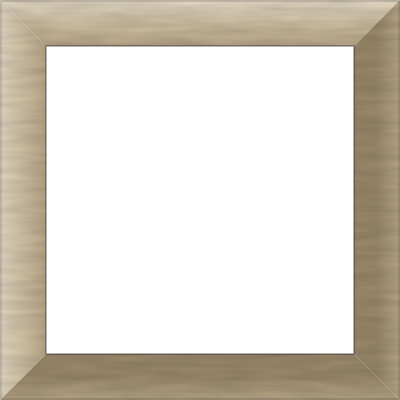
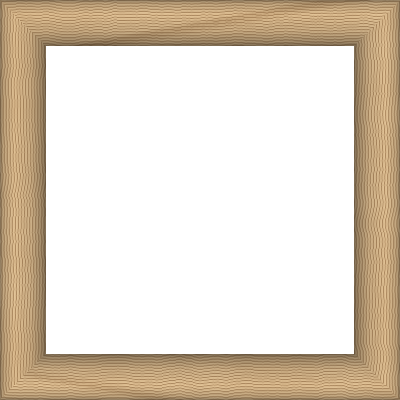
Realistic fine-grain natural-wood frame; rename Oak -> Natural Wood
The oak frame texture read as brushed metal (soft horizontal streaks).
Regenerate it as a procedural 9-slice wood molding: a beveled cross-
section with fine, wavy oak grain running along each rail and mitered
45-degree corners (scripts/generate-oak-frame.js, deterministic). Bump
the frame texture cache version v4 -> v5 so browsers fetch the new art.

Rename the swatch "Oak" -> "Natural Wood" and update the homepage copy
(black, white, or natural wood).

Changed region(s): [[0.0, 0.0, 1.0, 1.0]]

diff --git a/scripts/generate-oak-frame.js b/scripts/generate-oak-frame.js
@@ -1,0 +1,107 @@
+/**
+ * Generate a realistic fine-grain natural-wood (oak) frame texture as a
+ * 400x400 RGBA 9-slice border-image (matches border-image-slice:46 in
+ * preview.js / store.css). The molding occupies the outer 46px band with a
+ * beveled cross-section and fine, wavy oak grain running along each rail;
+ * corners miter at 45 degrees. Center is transparent (discarded by the slice).
+ *
+ * Run: node scripts/generate-oak-frame.js  ->  public/images/frames/oak.png
+ */
+const sharp = require('sharp');
+const path = require('path');
+
+const SIZE = 400;
+const BAND = 46;              // must equal border-image-slice
+const OUT = path.join(__dirname, '..', 'public', 'images', 'frames', 'oak.png');
+
+// ── deterministic value noise (no Math.random → reproducible builds) ──
+function mulberry32(a) {
+  return function () {
+    a |= 0; a = (a + 0x6D2B79F5) | 0;
+    let t = Math.imul(a ^ (a >>> 15), 1 | a);
+    t = (t + Math.imul(t ^ (t >>> 7), 61 | t)) ^ t;
+    return ((t ^ (t >>> 14)) >>> 0) / 4294967296;
+  };
+}
+const rand = mulberry32(20260715);
+const GRID = 512;
+const noiseTable = Array.from({ length: GRID }, () => rand());
+function smooth(t) { return t * t * (3 - 2 * t); }
+// 1-D value noise along a rail's length
+function noise1(x) {
+  const i = Math.floor(x), f = x - i;
+  const a = noiseTable[((i % GRID) + GRID) % GRID];
+  const b = noiseTable[(((i + 1) % GRID) + GRID) % GRID];
+  return a + (b - a) * smooth(f);
+}
+function fbm(x) { // fractal sum for organic wobble
+  return 0.6 * noise1(x) + 0.3 * noise1(x * 2.3 + 11) + 0.1 * noise1(x * 4.7 + 31);
+}
+
+// ── oak palette (honey/natural) ──
+const DARK = [150, 116, 78];   // early-wood grain lines
+const BASE = [201, 170, 128];  // #C9AA80 field
+const LITE = [227, 202, 162];  // late-wood highlight
+function lerp(a, b, t) { return [a[0] + (b[0] - a[0]) * t, a[1] + (b[1] - a[1]) * t, a[2] + (b[2] - a[2]) * t]; }
+function mul(c, k) { return [c[0] * k, c[1] * k, c[2] * k]; }
+
+// Beveled cross-section brightness across the 46px face (d: 0 outer .. 1 inner)
+function bevel(d) {
+  if (d < 0.06) return 0.72 + d / 0.06 * 0.20;          // outer edge shadow → up
+  if (d < 0.30) return 0.92 + (d - 0.06) / 0.24 * 0.16;  // rising face, catches light
+  if (d < 0.66) return 1.08 - (d - 0.30) / 0.36 * 0.10;  // gentle crown falloff
+  if (d < 0.90) return 0.98 - (d - 0.66) / 0.24 * 0.20;  // inner bevel down
+  return 0.78 - (d - 0.90) / 0.10 * 0.20;                // inner sight-edge shadow
+}
+
+// Fine oak grain darkness at (along px, across 0..1). Many thin, wavy lines.
+function grain(along, across) {
+  const wob = (fbm(along * 0.045) - 0.5) * 0.10          // slow drift of the whole grain
+            + (fbm(along * 0.20 + 7) - 0.5) * 0.03;       // finer wobble
+  const p = across + wob;
+  // ~16 fine lines across the face + a second octave for irregularity
+  let s = Math.sin(p * Math.PI * 2 * 16) * 0.5 + 0.5;
+  s = Math.pow(s, 2.2);                                   // thin the dark lines
+  const s2 = Math.sin((p + 0.13) * Math.PI * 2 * 33) * 0.5 + 0.5;
+  s = s * 0.78 + Math.pow(s2, 3) * 0.22;
+  // occasional stronger cathedral streak
+  const streak = fbm(along * 0.012 + across * 3 + 50);
+  if (streak > 0.72) s = Math.min(1, s + (streak - 0.72) * 1.4);
+  // long-axis tone variation (planks are never one flat color)
+  const tone = (fbm(along * 0.02 + 3) - 0.5) * 0.5 + 0.5;
+  const field = lerp(BASE, LITE, tone * 0.6);
+  return lerp(field, DARK, s * 0.85);                     // s→1 = dark grain line
+}
+
+const data = Buffer.alloc(SIZE * SIZE * 4);
+
+for (let y = 0; y < SIZE; y++) {
+  for (let x = 0; x < SIZE; x++) {
+    const dT = y, dB = SIZE - 1 - y, dL = x, dR = SIZE - 1 - x;
+    const dmin = Math.min(dT, dB, dL, dR);
+    const idx = (y * SIZE + x) * 4;
+    if (dmin >= BAND) { data[idx + 3] = 0; continue; } // transparent hole
+
+    // Which rail owns this pixel (argmin → clean 45° miter at corners)
+    let along;
+    if (dmin === dT) along = x;
+    else if (dmin === dB) along = x + 1000;   // offset so rails don't share grain phase
+    else if (dmin === dL) along = y + 2000;
+    else along = y + 3000;
+
+    const across = dmin / BAND;               // 0 outer .. 1 inner
+    let c = grain(along, across);
+    c = mul(c, bevel(across));
+
+    data[idx] = Math.max(0, Math.min(255, Math.round(c[0])));
+    data[idx + 1] = Math.max(0, Math.min(255, Math.round(c[1])));
+    data[idx + 2] = Math.max(0, Math.min(255, Math.round(c[2])));
+    data[idx + 3] = 255;
+  }
+}
+
+sharp(data, { raw: { width: SIZE, height: SIZE, channels: 4 } })
+  .png()
+  .toFile(OUT)
+  .then(() => console.log('Wrote', OUT))
+  .catch((e) => { console.error(e); process.exit(1); });

diff --git a/public/index.html b/public/index.html
@@ -393,7 +393,7 @@
             <svg width="28" height="28" viewBox="0 0 24 24" fill="none" stroke="currentColor" stroke-width="1.5"><rect x="2" y="7" width="20" height="14" rx="2"/><path d="M16 7V5a4 4 0 0 0-8 0v2"/></svg>
           </div>
           <h3>Framed in your choice of finish</h3>
-          <p>Choose the frame that fits their home &ndash; black, white, oak, or natural wood &ndash; with their name and the years you shared set into the design. No two are alike, because no two of them were.</p>
+          <p>Choose the frame that fits their home &ndash; black, white, or natural wood &ndash; with their name and the years you shared set into the design. No two are alike, because no two of them were.</p>
         </div>
         <div class="feature-item fade-in">
           <div class="feature-icon">

diff --git a/public/js/preview.js b/public/js/preview.js
@@ -656,7 +656,7 @@
       const tex = frameDef.texture || (frameDef.id === 'pleinair' ? 'espresso' : frameDef.id) || 'black';
       // ?v bumps whenever the frame textures are re-cut, so browsers/CDN fetch
       // the new art instead of a cached old PNG (same filenames).
-      border.style.setProperty('--frame-tex', 'url("/images/frames/' + tex + '.png?v=4")');
+      border.style.setProperty('--frame-tex', 'url("/images/frames/' + tex + '.png?v=5")');
       border.style.setProperty('--frame-fallback', frameDef.swatch || '#2a2a2a');
     }
     // Recompute frame face width for the current size/layout.
